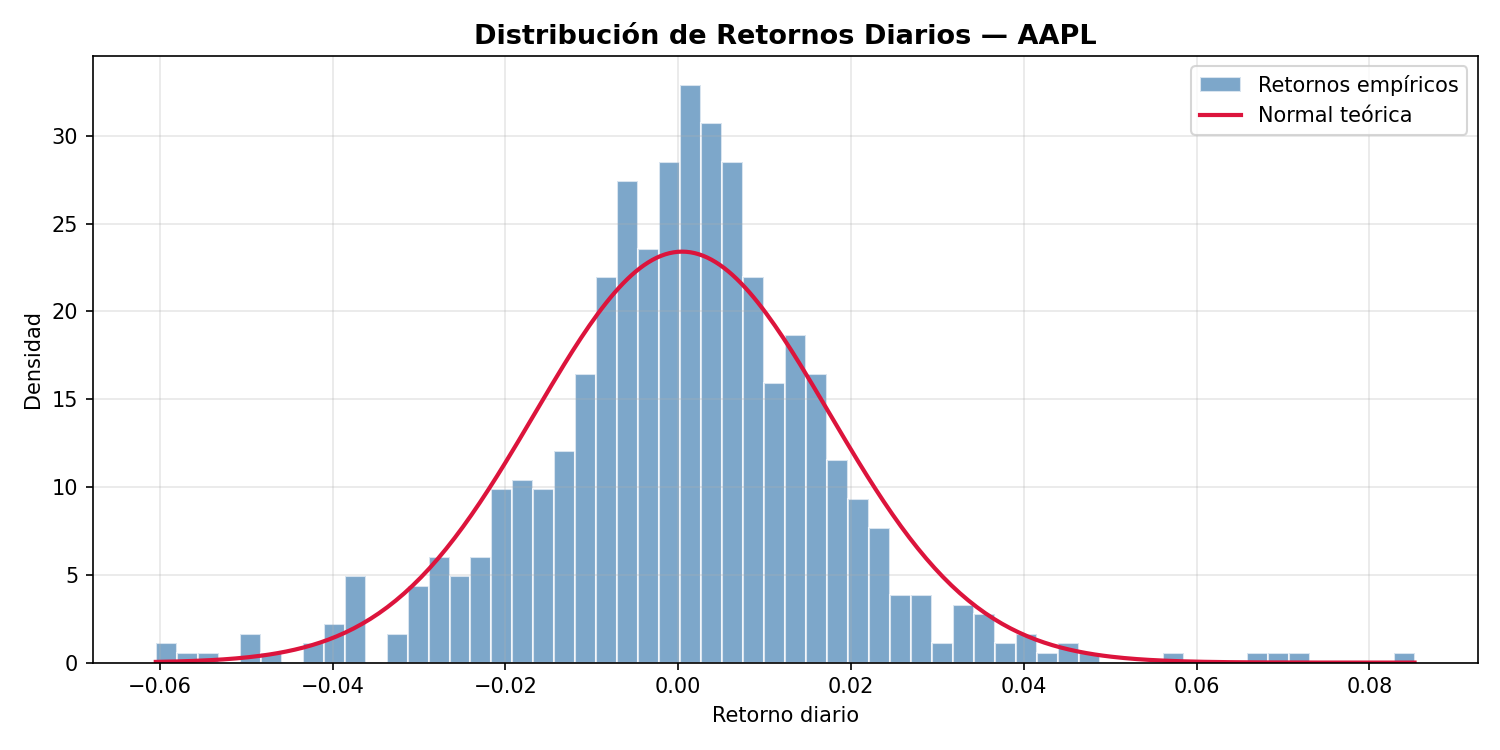
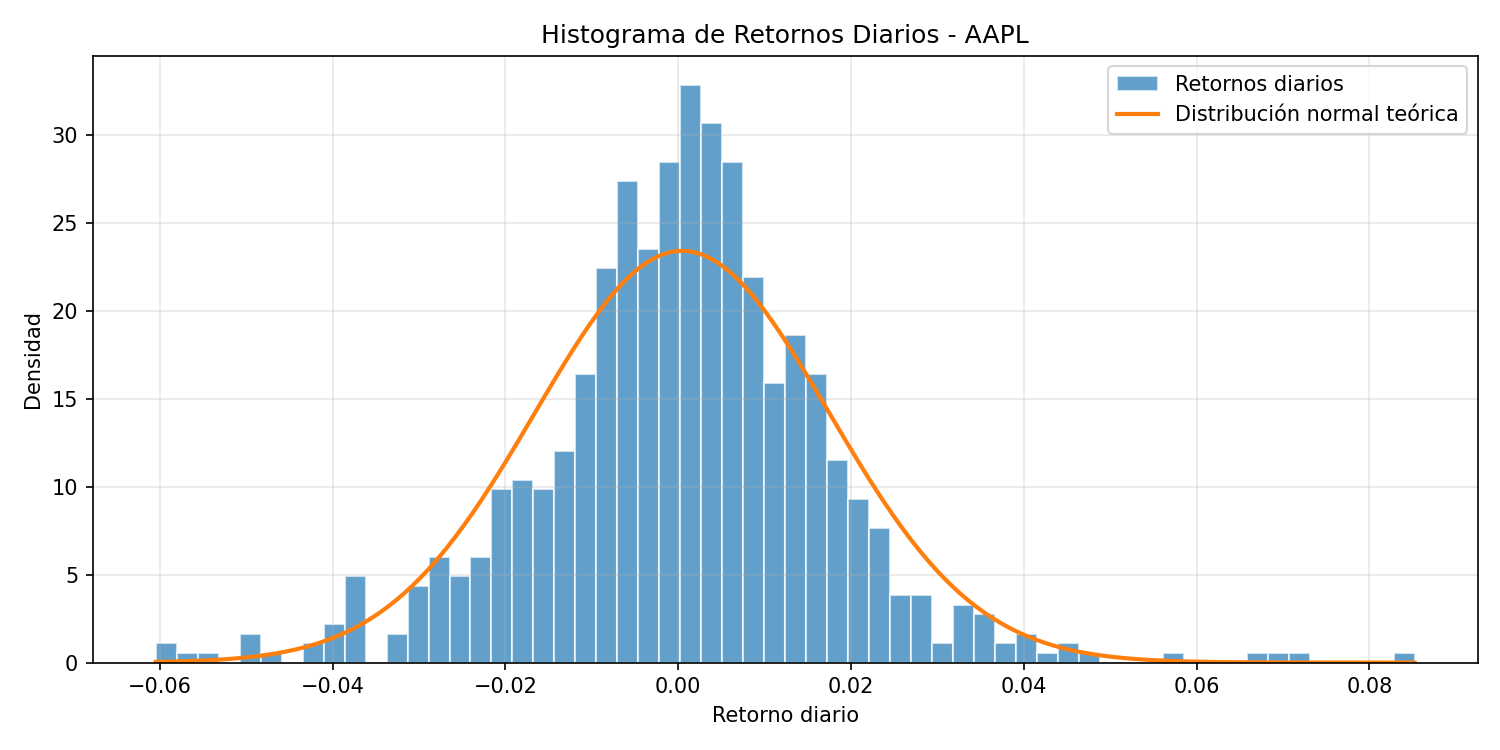
avance

diff --git a/apps/api/src/routes/actas-recepcion.routes.js b/apps/api/src/routes/actas-recepcion.routes.js
@@ -572,8 +572,8 @@ module.exports = async function (fastify, opts) {
                                     { text: d.fecha_vencimiento ? new Date(d.fecha_vencimiento).toLocaleDateString('es-PE') : '', style: 'tableCellSmall' },
                                     { text: parseFloat(d.cantidad_solicitada || 0).toFixed(0), style: 'tableCell' },
                                     { text: parseFloat(d.cantidad_recibida || 0).toFixed(0), style: 'tableCell' },
-                                    { text: d.aspecto === 'EMB' ? 'X' : '', style: 'tableCell' },
-                                    { text: d.aspecto === 'ENV' ? 'X' : '', style: 'tableCell' }
+                                    { text: '√', style: 'tableCell' },
+                                    { text: '√', style: 'tableCell' }
                                 ])
                             ]
                         },
@@ -672,6 +672,7 @@ module.exports = async function (fastify, opts) {
                                             {
                                                 columns: [
                                                     { text: 'EMB: Embalaje', width: 80, style: 'legendText' },
+                                                    { text: 'ENV: Envase', width: 70, style: 'legendText' },
                                                     { text: '√: Conforme', width: 70, style: 'legendText' },
                                                     { text: 'X: No Conforme', width: 80, style: 'legendText' },
                                                     { text: 'NA: No Aplica', width: 70, style: 'legendText' },

diff --git a/apps/electron/renderer/src/pages/operations/ActaRecepcionForm.jsx b/apps/electron/renderer/src/pages/operations/ActaRecepcionForm.jsx
@@ -833,7 +833,7 @@ export const ActaRecepcionForm = () => {
                                 className="input-premium"
                             >
                                 <option value="EMB">EMB</option>
-                                <option value="ENB">ENB</option>
+                                <option value="ENV">ENV</option>
                             </select>
                         </div>
 
@@ -950,7 +950,7 @@ export const ActaRecepcionForm = () => {
                                         <td className="px-4 py-3 text-right text-orange-600 font-semibold">{field.cantidad_solicitada}</td>
                                         <td className="px-4 py-3 text-right text-green-600 font-bold">{field.cantidad_recibida}</td>
                                         <td className="px-4 py-3 text-center">
-                                            <span className={`px-2 py-1 rounded text-xs font-bold ${field.aspecto === 'EMB' ? 'bg-green-100 text-green-700' : 'bg-red-100 text-red-700'}`}>
+                                            <span className={`px-2 py-1 rounded text-xs font-bold ${['EMB', 'ENV'].includes(field.aspecto) ? 'bg-green-100 text-green-700' : 'bg-red-100 text-red-700'}`}>
                                                 {field.aspecto}
                                             </span>
                                         </td>

diff --git a/apps/electron/renderer/src/components/ActaRecepcionLayout.jsx b/apps/electron/renderer/src/components/ActaRecepcionLayout.jsx
@@ -187,6 +187,7 @@ const ActaRecepcionLayout = () => {
                             <div className="font-bold underline mb-1">LEYENDA</div>
                             <div className="flex gap-4 mb-2 font-bold">
                                 <span>EMB: Embalaje</span>
+                                <span>ENV: Envase</span>
                                 <span>√: Conforme</span>
                                 <span>X: No Conforme</span>
                                 <span>NA: No Aplica</span>
